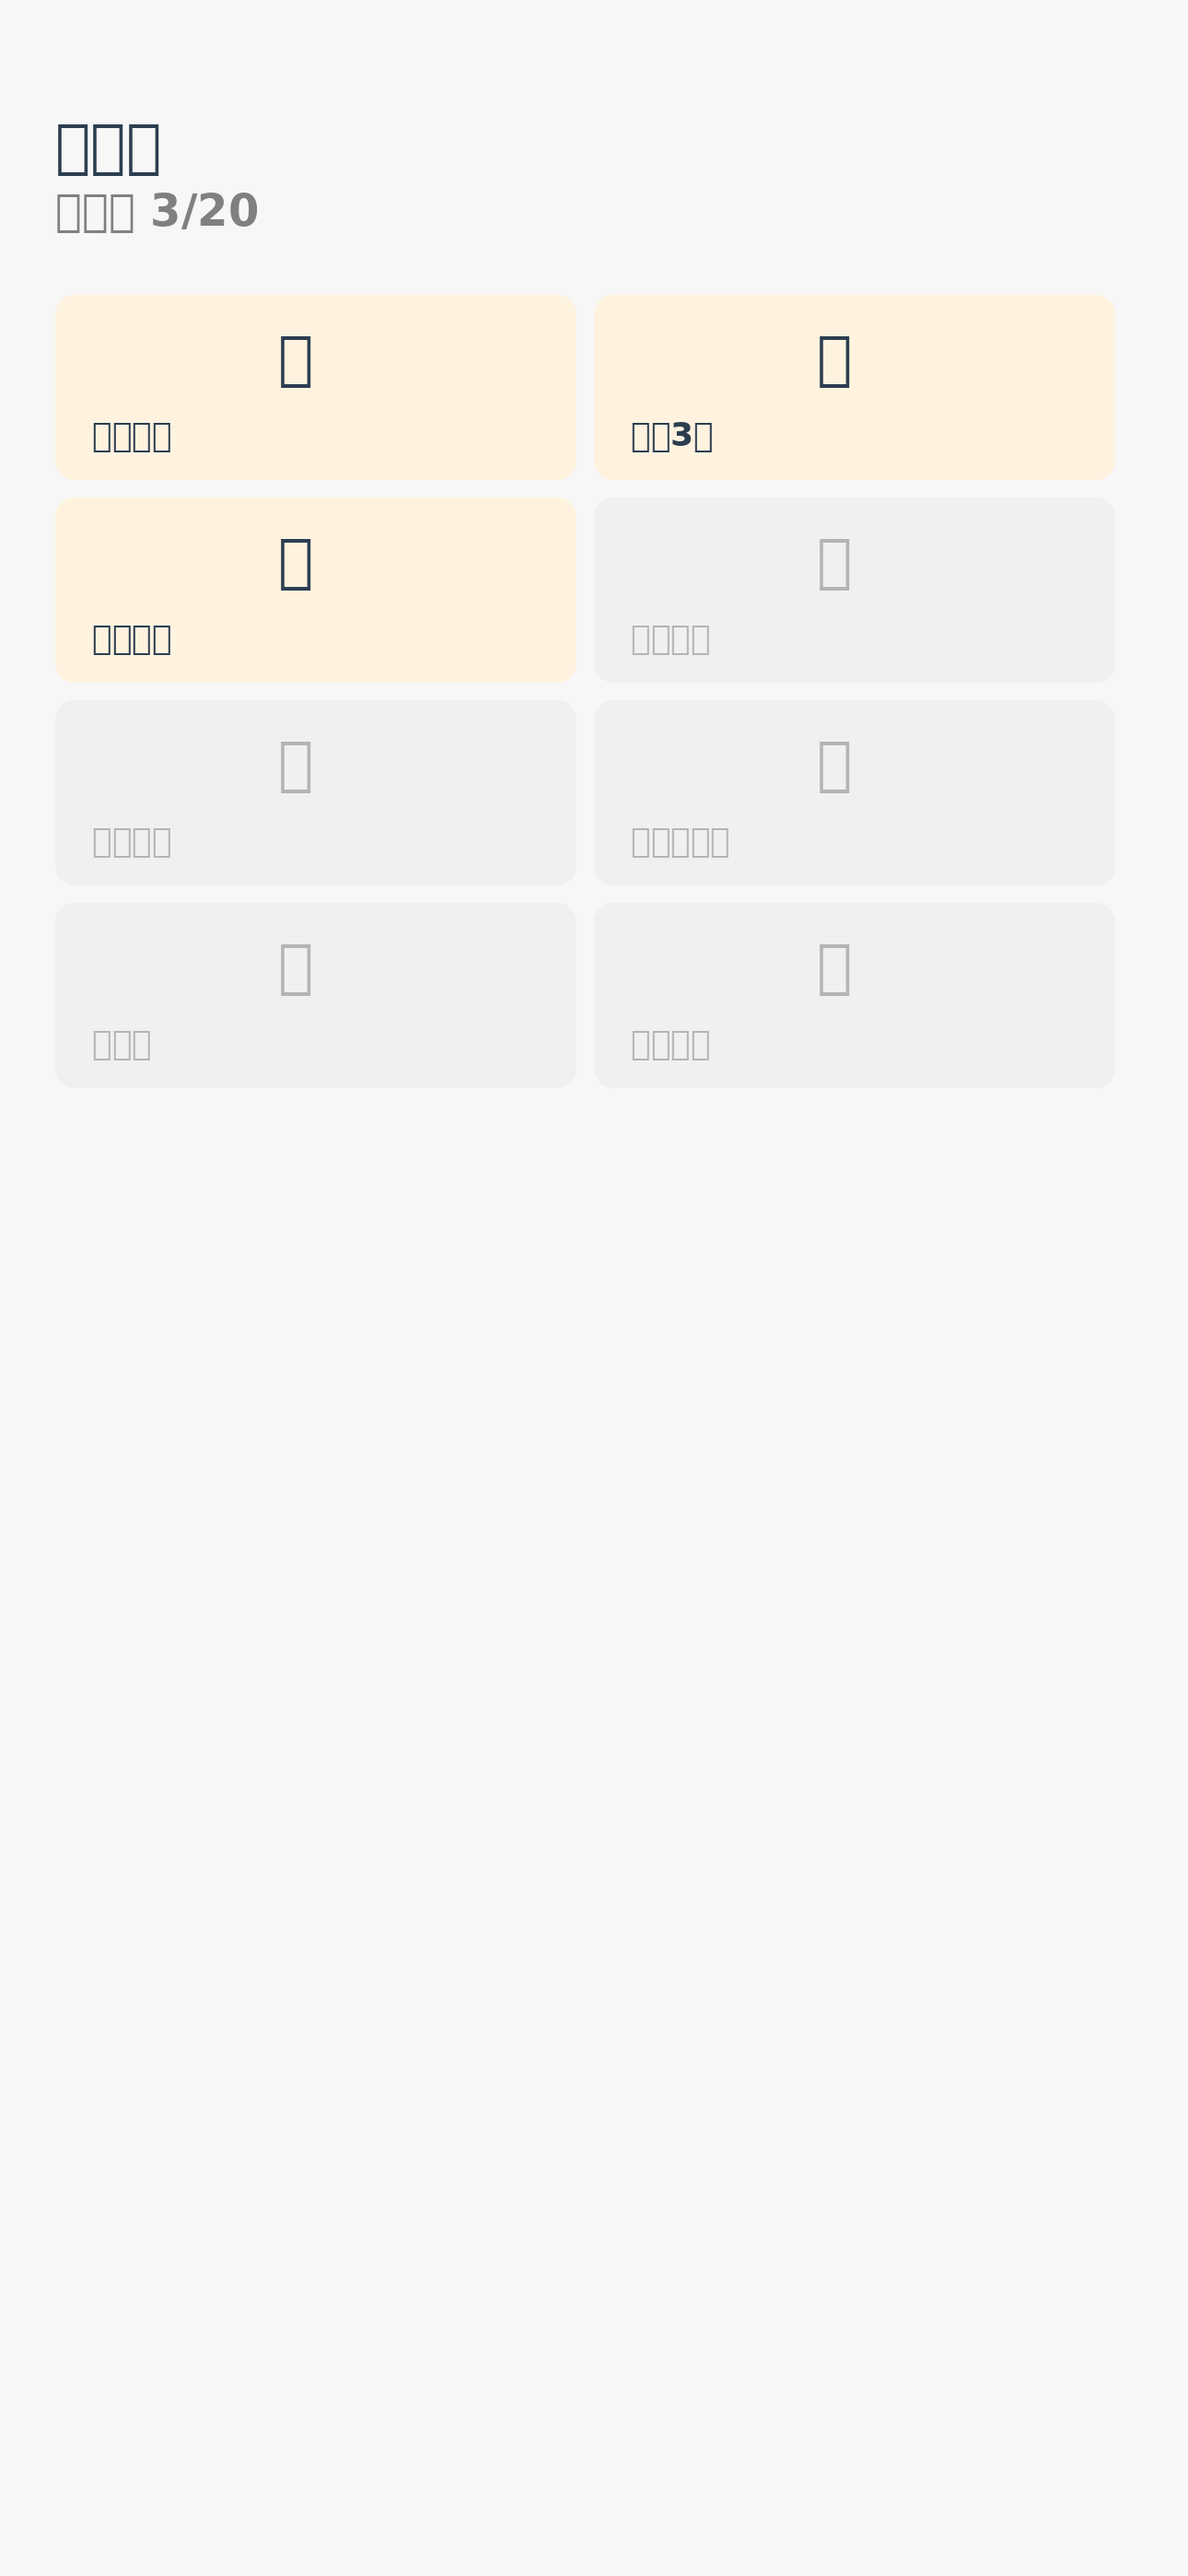
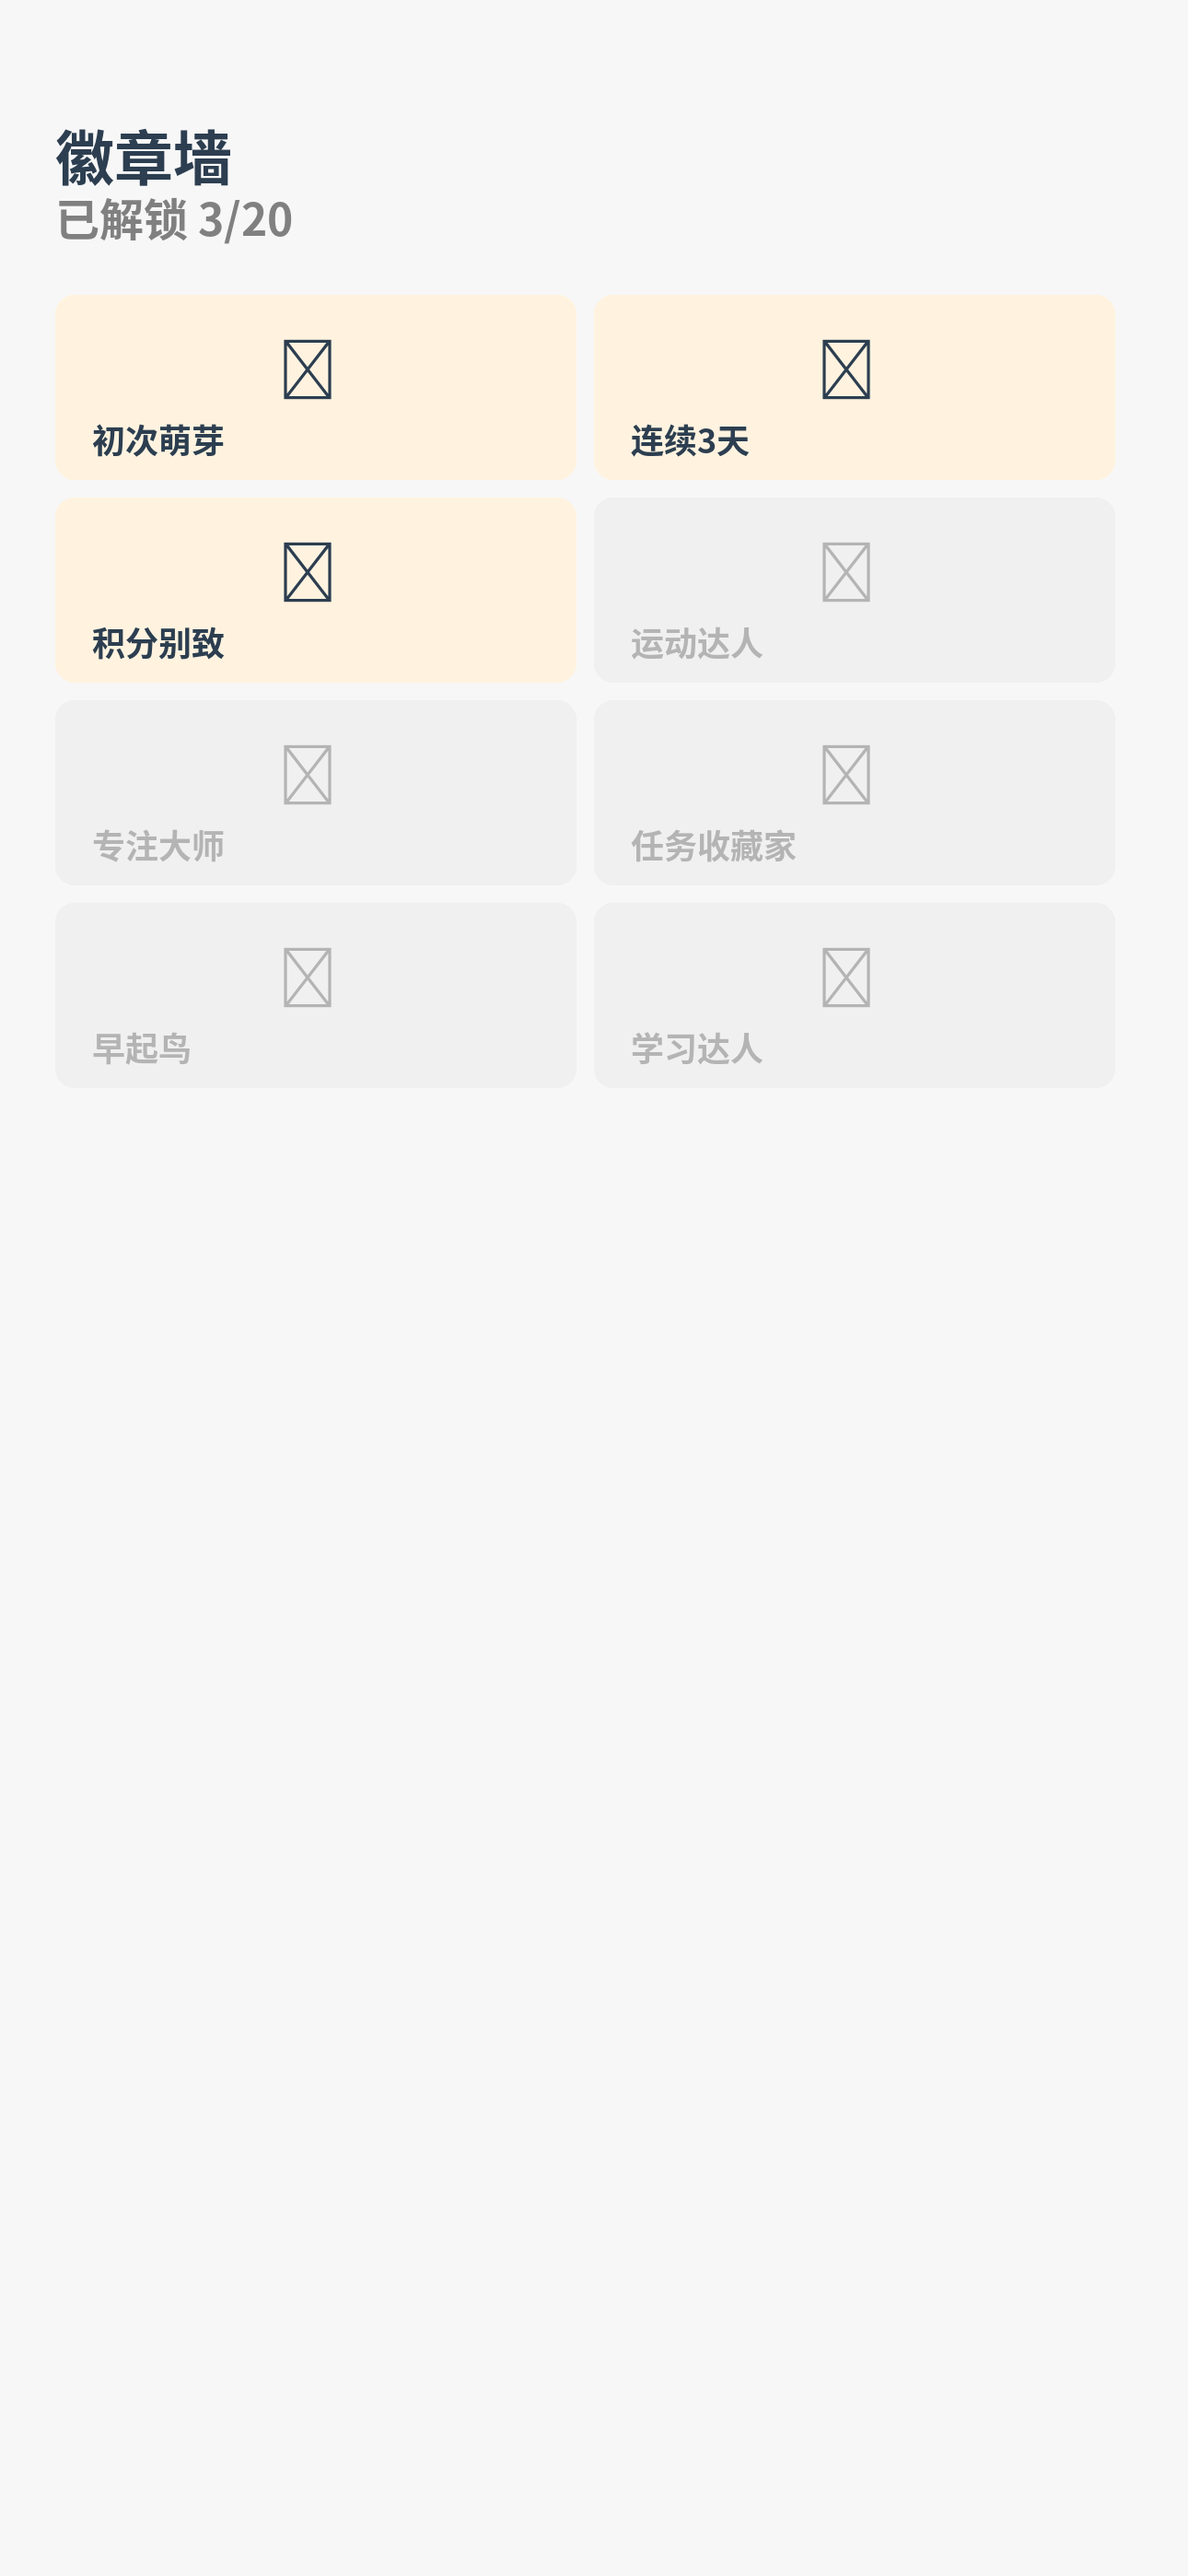
Update screenshots with Chinese font support

diff --git a/generate_screenshots.py b/generate_screenshots.py
@@ -45,14 +45,22 @@ def draw_circle_progress(draw, center, radius, progress, color, bg_color):
     draw.pieslice([x-radius, y-radius, x+radius, y+radius], start=start_angle, end=end_angle, fill=color)
 
 def get_font(size):
-    """获取字体"""
-    try:
-        return ImageFont.truetype("/usr/share/fonts/truetype/dejavu/DejaVuSans-Bold.ttf", size)
-    except:
+    """获取字体 - 优先使用支持中文的字体"""
+    font_paths = [
+        "/tmp/NotoSansCJKsc-Bold.otf",  # 下载的中文支持字体
+        "/usr/share/fonts/truetype/noto/NotoSansCJK-Regular.ttc",
+        "/System/Library/Fonts/PingFang.ttc",  # macOS 中文字体
+        "/usr/share/fonts/truetype/dejavu/DejaVuSans-Bold.ttf",
+        "/System/Library/Fonts/Helvetica.ttc",
+    ]
+    
+    for path in font_paths:
         try:
-            return ImageFont.truetype("/System/Library/Fonts/Helvetica.ttc", size)
+            return ImageFont.truetype(path, size)
         except:
-            return ImageFont.load_default()
+            continue
+    
+    return ImageFont.load_default()
 
 def screenshot1_home():
     """截图 1: 首页 - 今日任务"""
